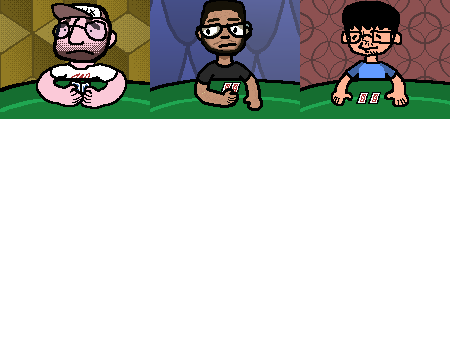
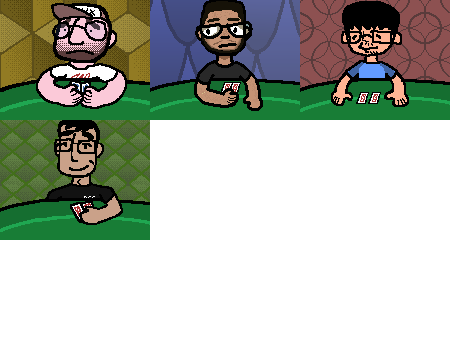
mudanças na logica de virar carta e na quantidade de coisas na mesa

Changed region(s): [[0.0, 0.3056, 0.3422, 0.6722]]

diff --git a/src/modelos/Jogo/Jogo.java b/src/modelos/Jogo/Jogo.java
@@ -7,6 +7,7 @@ public class Jogo {
     int level;
     int fase;
     int rodada;
+    private int etapaRodada = 0;
 
     Baralho baralho;
     Pote pote;
@@ -19,8 +20,7 @@ public class Jogo {
     private int jogadaJogador;
     private int jogadaInimigo;
 
-    public Jogo(){
-
+    public Jogo() {
         this.rodada = 1;
         this.fase = 1;
         this.level = 1;
@@ -28,143 +28,137 @@ public class Jogo {
         pote = new Pote();
         inimigo = new Inimigo();
         jogador = new Jogador("Naka");
+
         baralho = new Baralho();
         baralho.criaBaralho();
         baralho.embaralhaBaralho();
 
         mesa = new Mesa(baralho);
         mesa.recebeCarta(baralho);
-        jogador.recebeCarta(baralho);
-        inimigo.recebeCarta(baralho);
-    }
 
-    public void iniciarRodada(){
-
-        System.out.println("Rodada " + rodada++);
-
-        jogador.recebeCarta(baralho);
-        inimigo.recebeCarta(baralho);
-
-        inimigoPronto = false;
-        jogadorPronto = false;
-
-    }
-
-    public void registrarEscolhaJogador(int escolha) {
-        this.jogadaJogador = escolha;
-        jogadorPronto = true;
-        verificarSePodeAvancar();
-    }
-
-    public void registrarEscolhaInimigo() {
-        this.jogadaInimigo = inimigo.getJogada(); // IA decide
-        inimigoPronto = true;
-        verificarSePodeAvancar();
-    }
-
-    public void verificarSePodeAvancar(){
-        if(inimigoPronto && jogadorPronto){
-            processarRodada();
-        }
-    }
-
-    public void processarRodada(){
-        if(jogadaJogador == 0){
-            jogador.setVida(jogador.getVida() - pote.getQuantidade());
-        } else if(jogadaInimigo == 0){
-            inimigo.setVida(jogador.getVida() - pote.getQuantidade());
-        }
+        iniciarJogo();
     }
 
     public void iniciarJogo() {
-
-        if (jogador.getVida() <= 0 || inimigo.getVida() <= 0) {
-            finalizarJogo();
-            return;
-        }
-
+        // Define quem é SB/BB aleatoriamente
         Random r = new Random();
         int moeda = r.nextInt(2);
 
         jogador.setBlind(moeda);
         inimigo.setBlind(1 - moeda);
 
-        while(jogador.getVida() <= 0 || inimigo.getVida() <= 0){
-
-            iniciarRodada();
-            novaRodada();
-
-        }
+        novaRodada();
     }
 
-    private void novaRodada(){
-        rodada++;
+    private void novaRodada() {
+        System.out.println("Rodada " + rodada++);
+        etapaRodada = 0;
 
-        if(jogador.getBlind() == 1){
+        // Deduz blinds
+        if (jogador.getBlind() == 1) {
             jogador.setVida(jogador.getVida() - 200);
             pote.setQuantidade(200);
             inimigo.setVida(inimigo.getVida() - 100);
             pote.setQuantidade(100);
-
+            System.out.println("Jogador é SB");
         } else {
             jogador.setVida(jogador.getVida() - 100);
             pote.setQuantidade(200);
             inimigo.setVida(inimigo.getVida() - 200);
             pote.setQuantidade(100);
+            System.out.println("Jogador é BB");
         }
 
-        int contTurnos = 0;
+        // Reinicia mesa e baralho
+        baralho = new Baralho();
+        baralho.criaBaralho();
+        baralho.embaralhaBaralho();
 
-        while(contTurnos <=2){
+        mesa = new Mesa(baralho);
+        mesa.recebeCarta(baralho);
 
+        // Distribui cartas
+        jogador.recebeCarta(baralho);
+        inimigo.recebeCarta(baralho);
 
-            if(jogador.getBlind() == 1){
-                registrarEscolhaJogador(jogador.getJogada());
-                registrarEscolhaInimigo();
-            } else {
-                registrarEscolhaInimigo();
-                registrarEscolhaJogador(jogador.getJogada());
+        jogadorPronto = false;
+        inimigoPronto = false;
+    }
+
+    public void registrarEscolhaJogador(int escolha) {
+        this.jogadaJogador = escolha;
+        jogadorPronto = true;
+
+        System.out.println("Jogador realizou jogada");
+        registrarEscolhaInimigo(); // IA
+    }
+
+    public void registrarEscolhaInimigo() {
+        this.jogadaInimigo = inimigo.getJogada();
+        inimigoPronto = true;
+
+        System.out.println("Inimigo realizou jogada");
+        verificarSePodeAvancar();
+    }
+
+    public void verificarSePodeAvancar() {
+        if (jogadorPronto && inimigoPronto) {
+            processarRodada();
+            jogadorPronto = false;
+            inimigoPronto = false;
+
+            etapaRodada++;
+
+            switch (etapaRodada) {
+                case 1:
+                    mesa.revelaCarta(0);
+                    mesa.revelaCarta(1);
+                    mesa.revelaCarta(2);
+                    System.out.println("Flop dado");
+                    break;
+                case 2:
+                    mesa.revelaCarta(3);
+                    System.out.println("Turn dado");
+                    break;
+                case 3:
+                    mesa.revelaCarta(4);
+                    System.out.println("River dado");
+                    break;
+                case 4:
+                    finalizarJogo();
+                    return;
             }
 
-            //Inverte os blinds
-            jogador.setBlind(1 - jogador.getBlind());
-            inimigo.setBlind(1 - inimigo.getBlind());
-            pote.resetPote();
-
-            if(contTurnos == 0){
-                mesa.revelaCarta(0);
-                mesa.revelaCarta(1);
-                mesa.revelaCarta(2);
-
-            } if(contTurnos == 1){
-                mesa.revelaCarta(3);
-            } if(contTurnos == 2) {
-                mesa.revelaCarta(4);
-            }
-            contTurnos++;
-
+            System.out.println("Etapa rodada " + etapaRodada + " processada");
         }
     }
 
+    public void processarRodada() {
+        if (jogadaJogador == 0) {
+            jogador.setVida(jogador.getVida() - pote.getQuantidade());
+            System.out.println("Jogador perdeu a rodada");
+        } else if (jogadaInimigo == 0) {
+            inimigo.setVida(inimigo.getVida() - pote.getQuantidade());
+            System.out.println("Inimigo perdeu a rodada");
+        } else {
+            System.out.println("Ambos continuam na rodada");
+        }
+    }
 
-    public void finalizarJogo(){
-        if(jogador.getVida() <= 0){
+    public void finalizarJogo() {
+        if (jogador.getVida() <= 0) {
             System.out.println("Você perdeu!");
         } else if (inimigo.getVida() <= 0) {
             System.out.println("Você venceu!");
+        } else {
+            System.out.println("Fim da rodada. Iniciando próxima...");
+            novaRodada(); // Reinicia
         }
     }
 
-    public Jogador getJogador(){
-        return jogador;
-    }
-    public Inimigo getInimigo(){
-        return inimigo;
-    }
-    public Mesa getMesa(){
-        return mesa;
-    }
-    public  Pote getPote(){
-        return pote;
-    }
+
+    public Jogador getJogador() { return jogador; }
+    public Inimigo getInimigo() { return inimigo; }
+    public Mesa getMesa() { return mesa; }
+    public Pote getPote() { return pote; }
 }

diff --git a/src/modelos/Cartas/Carta.java b/src/modelos/Cartas/Carta.java
@@ -1,10 +1,21 @@
 package modelos.Cartas;
 
+import gui.Jogo.CartasPanel;
+
 public class Carta {
     private final Naipe naipe;
     private final Valor valor;
     private boolean verso = true;
     private final static String imagemCaminho = "/assets/images/cartas/baralho/";
+    private CartaListener listener;
+
+    public interface CartaListener {
+        void aoVirarCarta();
+    }
+
+    public void setCartaListener(CartaListener listener) {
+        this.listener = listener;
+    }
 
     public enum Naipe {
         COPAS, ESPADAS, OUROS, PAUS;
@@ -40,16 +51,16 @@ public class Carta {
         this.valor = valor;
     }
 
-    public Naipe getNaipe() {
-        return naipe;
-    }
-
-    public Valor getValor() {
-        return valor;
-    }
 
     public void virarCarta() {
+
+
         this.verso = !this.verso;
+
+        if (listener != null) {
+            listener.aoVirarCarta();
+            listener = null;
+        }
 
     }
 
@@ -60,4 +71,14 @@ public class Carta {
         else
             return imagemCaminho + naipe.toString() + "/" + valor.toString() + ".png";
     }
+
+    public Naipe getNaipe() {
+        return naipe;
+    }
+
+    public Valor getValor() {
+        return valor;
+    }
 }
+
+

diff --git a/src/gui/Jogo/CartasPanel.java b/src/gui/Jogo/CartasPanel.java
@@ -31,9 +31,17 @@ public class CartasPanel extends JPanel {
         carregarImagem(escalaInicial);
 
         inicializaTimers();
-        this.addMouseListener(new MouseAdapter() {
+
+//        this.addMouseListener(new MouseAdapter() {
+//            @Override
+//            public void mouseClicked(MouseEvent e) {
+//                animacaoVirarCarta();
+//            }
+//        });
+
+        this.carta.setCartaListener(new Carta.CartaListener() {
             @Override
-            public void mouseClicked(MouseEvent e) {
+            public void aoVirarCarta() {
                 animacaoVirarCarta();
             }
         });
@@ -95,9 +103,14 @@ public class CartasPanel extends JPanel {
         });
     }
 
-    private void animacaoVirarCarta() {
+    public void animacaoVirarCarta() {
         escalaAtual = escalaInicial;
-        frameAtual = 0;
+        frameAtual = 1;
         aumenta.start();
     }
+
+
+
+
 }
+

diff --git a/src/gui/Jogo/JogoGUI.java b/src/gui/Jogo/JogoGUI.java
@@ -140,7 +140,6 @@ public class JogoGUI extends JPanel {
             @Override
             public void actionPerformed(ActionEvent e){
                 jogo.registrarEscolhaJogador(1);
-                jogo.registrarEscolhaInimigo();
             }
         });
 
@@ -163,7 +162,6 @@ public class JogoGUI extends JPanel {
             @Override
             public void actionPerformed(ActionEvent e) {
                 jogo.registrarEscolhaJogador(0);
-                jogo.registrarEscolhaInimigo();
             }
         });
     }

diff --git a/src/modelos/Jogo/Mesa.java b/src/modelos/Jogo/Mesa.java
@@ -1,11 +1,13 @@
 package modelos.Jogo;
 
+import gui.Jogo.JogoGUI;
 import modelos.Cartas.*;
 
 public class Mesa {
     private final Carta[] cartas;
     private Baralho baralho;
     int cartasViradas;
+
 
     public Mesa(Baralho baralho){
         this.cartasViradas = 0;
@@ -37,7 +39,10 @@ public class Mesa {
     }
 
     public void revelaCarta(int numeroDaCarta){
+
+
         cartas[numeroDaCarta].virarCarta();
+
         cartasViradas++;
     }
 
